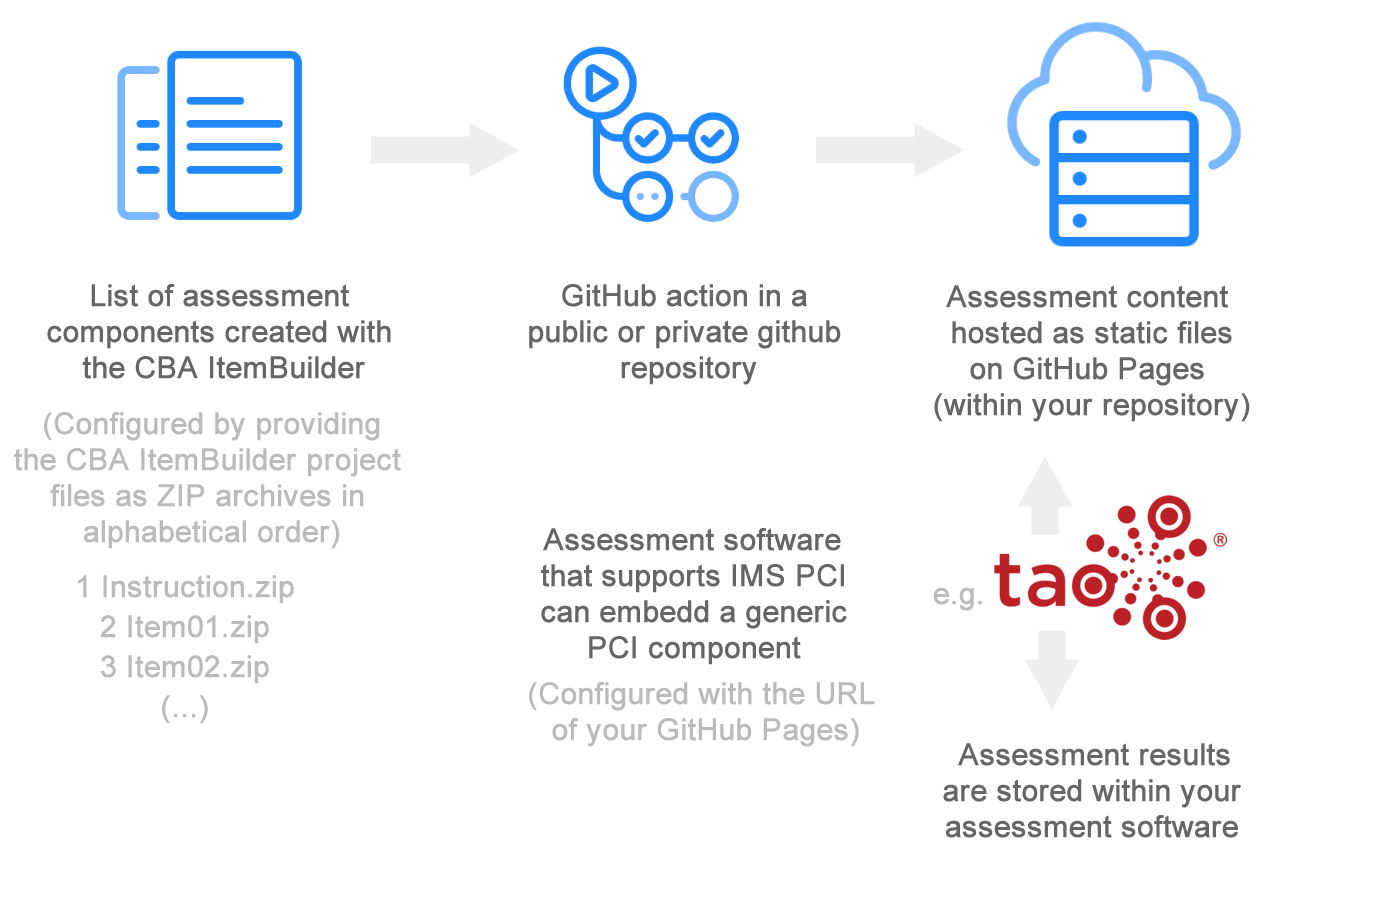
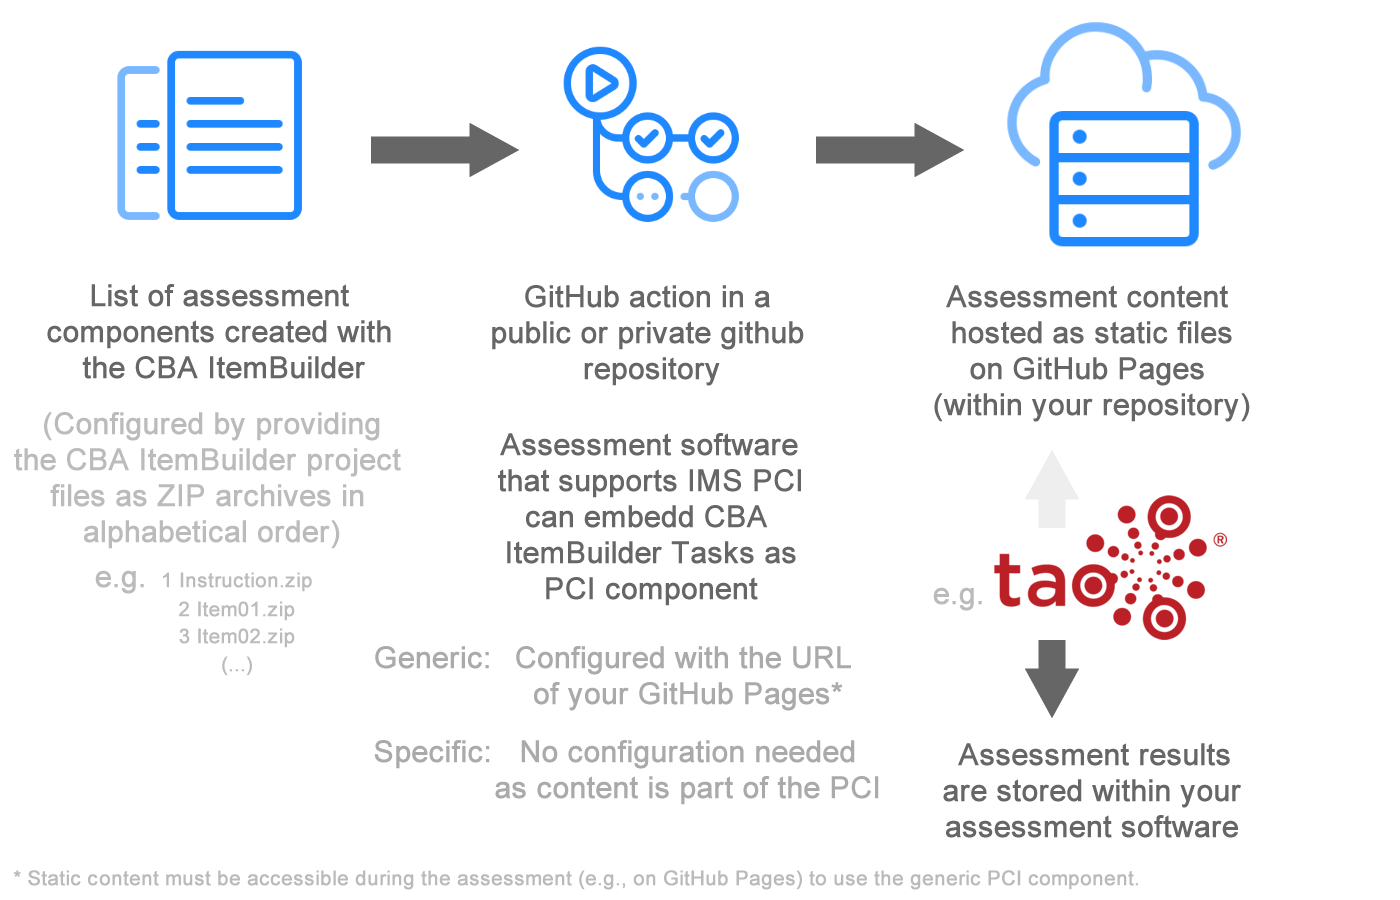
Readme Update

diff --git a/README.md b/README.md
@@ -1,6 +1,6 @@
 # Welcome to `fastib2pci`
 
-Easy-to-use packaging of CBA ItemBuilder items for computer-based assessments as portable custom interactions (PCI) that can be used in various assessment platforms (e.g., in [TAO](https://www.taotesting.com/)). 
+Easy-to-use packaging of [CBA ItemBuilder](https://tba.dipf.de/en/infrastructure/software-development/cba-itembuilder-1) items for computer-based assessments as [Portable Custom Interactions (PCI)](https://www.imsglobal.org/assessment/interactions.html) that can be used in various assessment platforms (e.g., in [TAO](https://www.taotesting.com/)). 
 
 ![](docs/diagram.png)
 
@@ -24,3 +24,7 @@ If multipe CBA ItemBuilder projects are provided in the `items/` directory, rena
 
 - **Q:** Are the data secure, and access restricted when using `fastib2pci`? **A:** Yes! For both approaches (using the generic or the specific PCI component), data will be stored within the assessment platform in which the PCI components are embedded. 
  
+- **Q:** Do I have to rename the CBA ItemBuilder projects in the CBA ItemBuilder with `Rename Project`, or is it sufficient to name the files in the Explorer / Finder so that the alphabetical order is correct? **A:**  It is enough to rename the project files. The names of the CBA ItemBuilder projects can remain unchanged. 
+- **Q:** The `items/` directory already contains files. What do I do? **A:** The sample files are included so that you can see how it works using an example of the [Static Page](https://dipftba.github.io/fastib2pci/). The example data must be deleted, so that these do not come with in the PCI created with `fastib2pci`. 
+
+- **Q:** How performant is the hosting of `fastib2pci`, i.e. how many students can work on the tasks simultaneously?  **A:** The goal of `fastib2pci` is to illustrate how CBA ItemBuilder content can be statically hosted for a generic PCI component. The performance of the GitHub static pages is only one example. If more concurrent testing is required and supported by the assessment platform into which the PCI components are integrated, the content from the `docs\` directory of the `gh-pages` branch can also be used for hosting via a CDN. 
